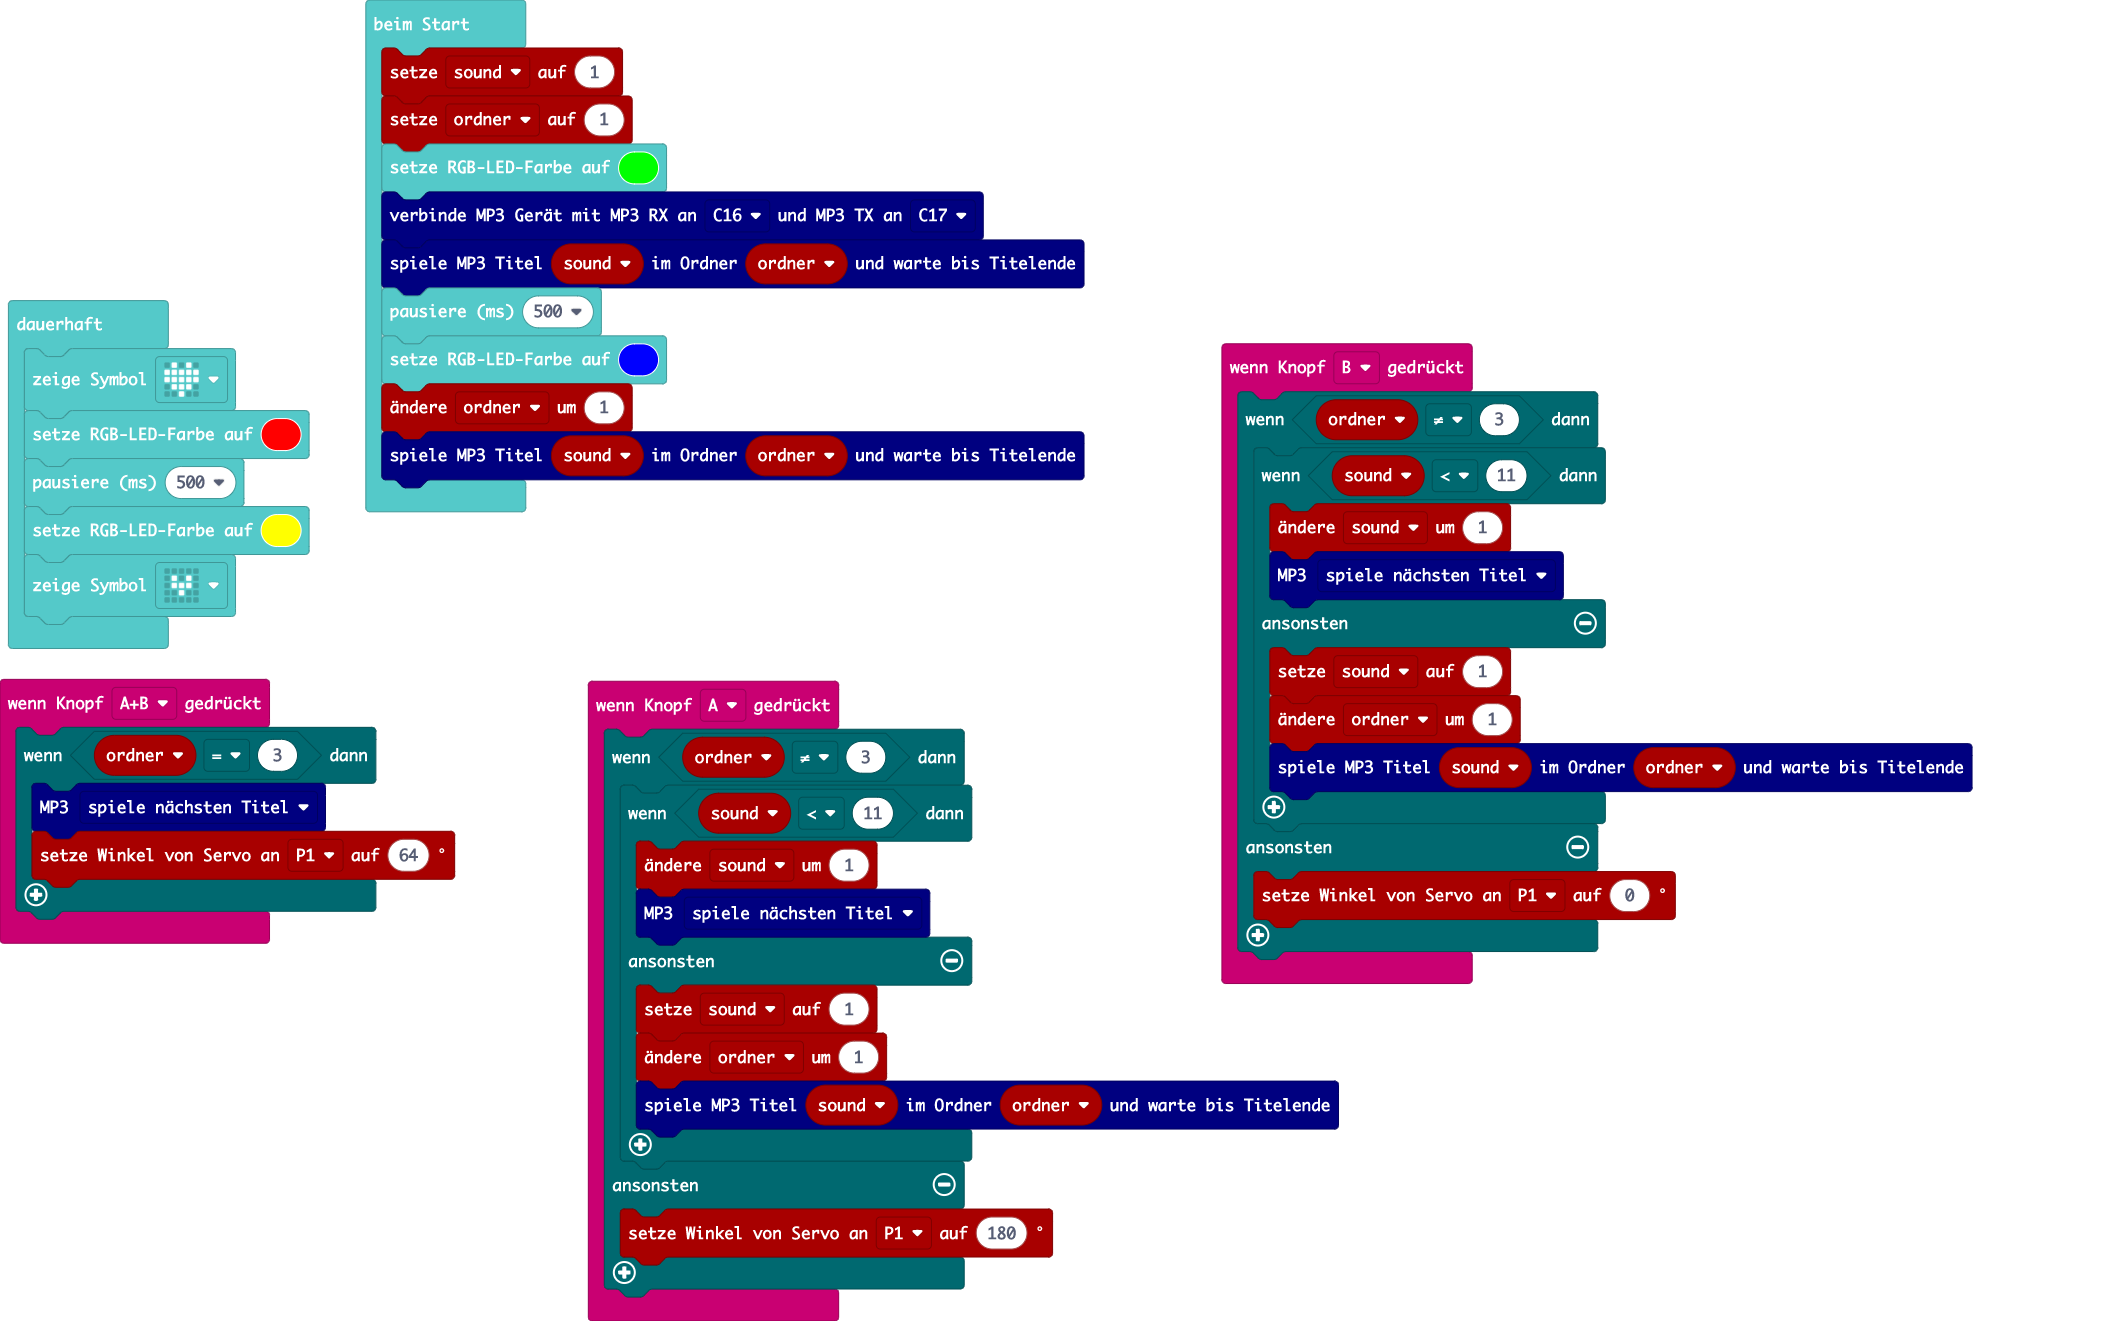
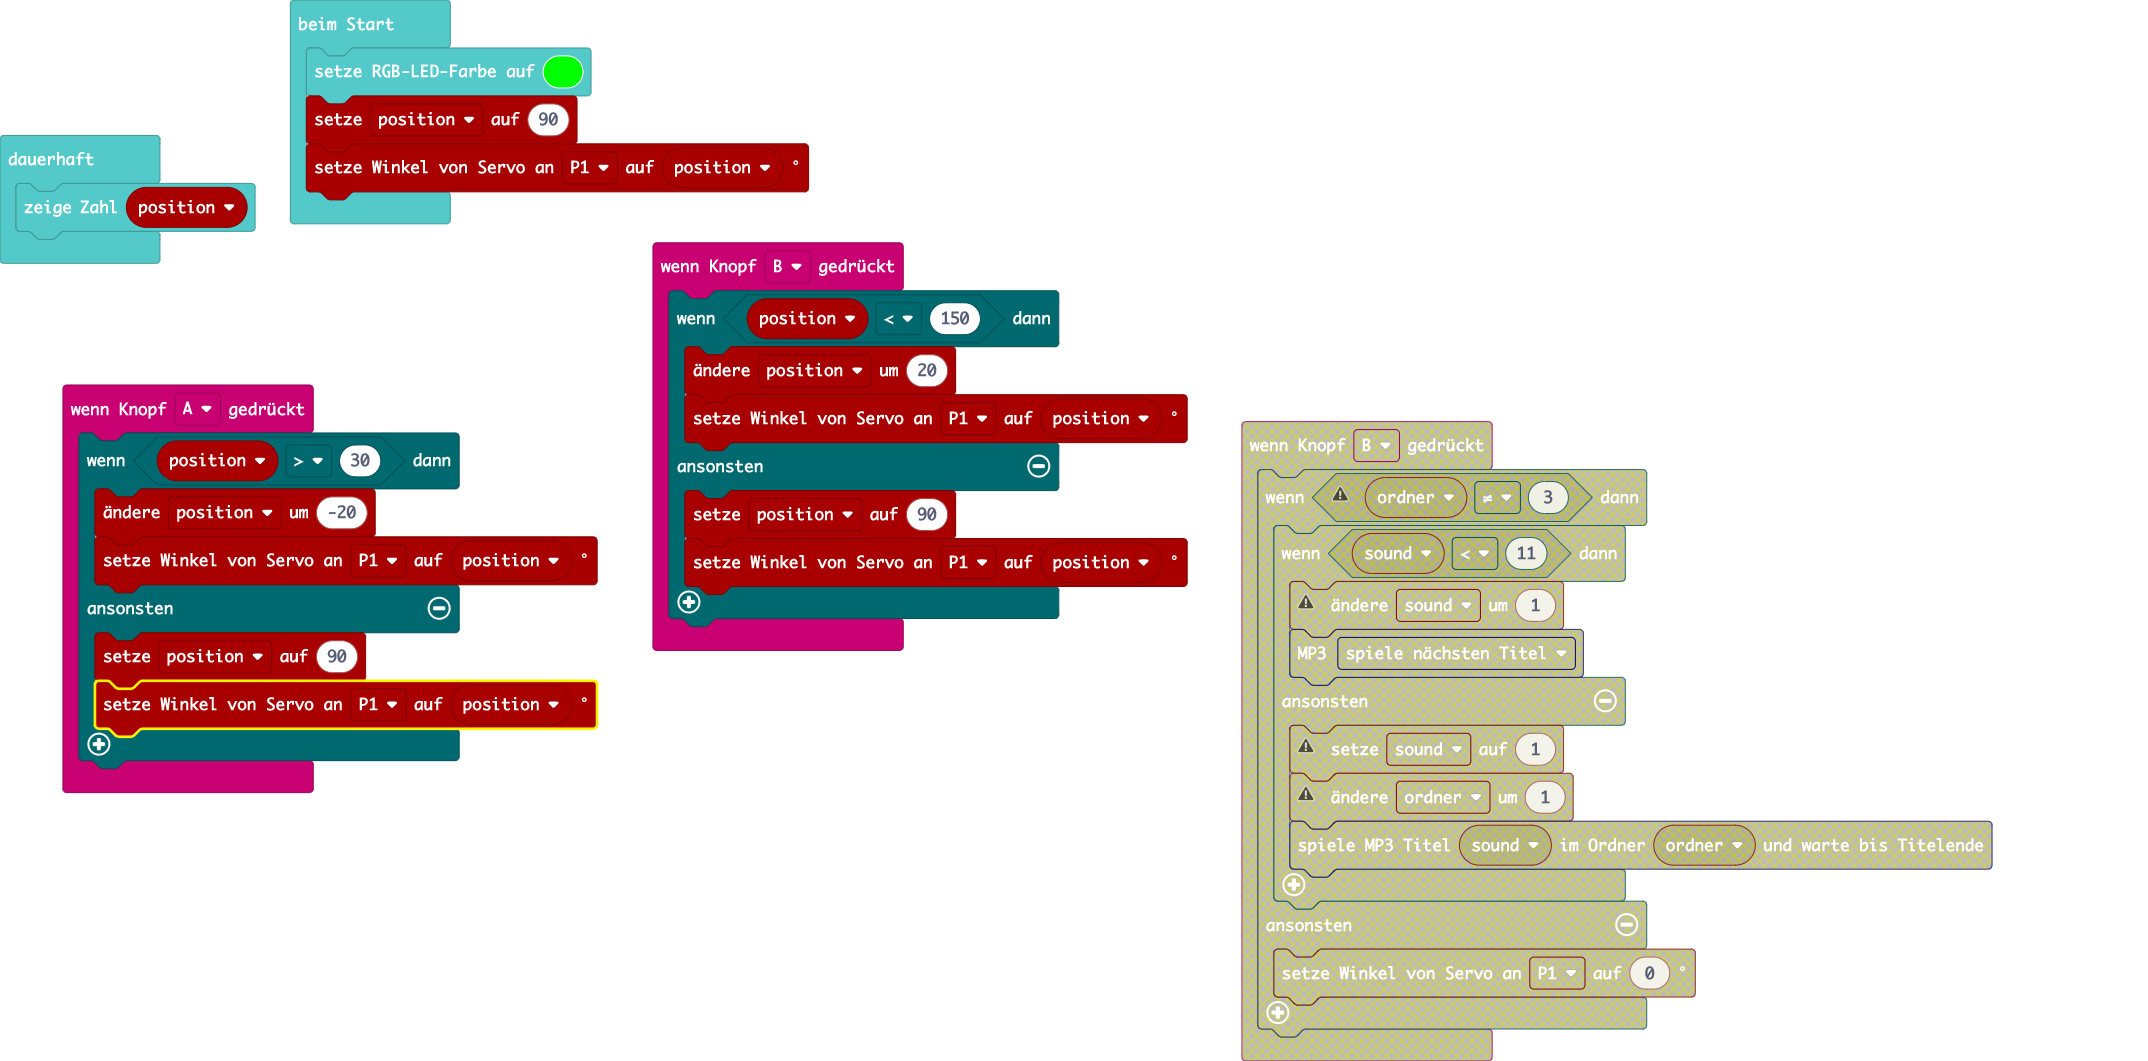
Aktualisiere pxt.json, main.blocks, main.ts

diff --git a/main.ts b/main.ts
@@ -1,52 +1,25 @@
 input.onButtonPressed(Button.A, function () {
-    if (ordner != 3) {
-        if (sound < 11) {
-            sound += 1
-            serialmp3.runMp3Command(Mp3Command.PLAY_NEXT_TRACK)
-        } else {
-            sound = 1
-            ordner += 1
-            serialmp3.playMp3Track(sound, ordner)
-        }
+    if (position > 30) {
+        position += -20
+        pins.servoWritePin(AnalogPin.P1, position)
     } else {
-        pins.servoWritePin(AnalogPin.P1, 180)
-    }
-})
-input.onButtonPressed(Button.AB, function () {
-    if (ordner == 3) {
-        serialmp3.runMp3Command(Mp3Command.PLAY_NEXT_TRACK)
-        pins.servoWritePin(AnalogPin.P1, 64)
+        position = 90
+        pins.servoWritePin(AnalogPin.P1, position)
     }
 })
 input.onButtonPressed(Button.B, function () {
-    if (ordner != 3) {
-        if (sound < 11) {
-            sound += 1
-            serialmp3.runMp3Command(Mp3Command.PLAY_NEXT_TRACK)
-        } else {
-            sound = 1
-            ordner += 1
-            serialmp3.playMp3Track(sound, ordner)
-        }
+    if (position < 150) {
+        position += 20
+        pins.servoWritePin(AnalogPin.P1, position)
     } else {
-        pins.servoWritePin(AnalogPin.P1, 0)
+        position = 90
+        pins.servoWritePin(AnalogPin.P1, position)
     }
 })
-let ordner = 0
-let sound = 0
-sound = 1
-ordner = 1
+let position = 0
 basic.setLedColor(0x00ff00)
-serialmp3.connectSerialMp3(DigitalPin.C16, DigitalPin.C17)
-serialmp3.playMp3Track(sound, ordner)
-basic.pause(500)
-basic.setLedColor(0x0000ff)
-ordner += 1
-serialmp3.playMp3Track(sound, ordner)
+position = 90
+pins.servoWritePin(AnalogPin.P1, position)
 basic.forever(function () {
-    basic.showIcon(IconNames.Heart)
-    basic.setLedColor(0xff0000)
-    basic.pause(500)
-    basic.setLedColor(0xffff00)
-    basic.showIcon(IconNames.SmallHeart)
+    basic.showNumber(position)
 })
